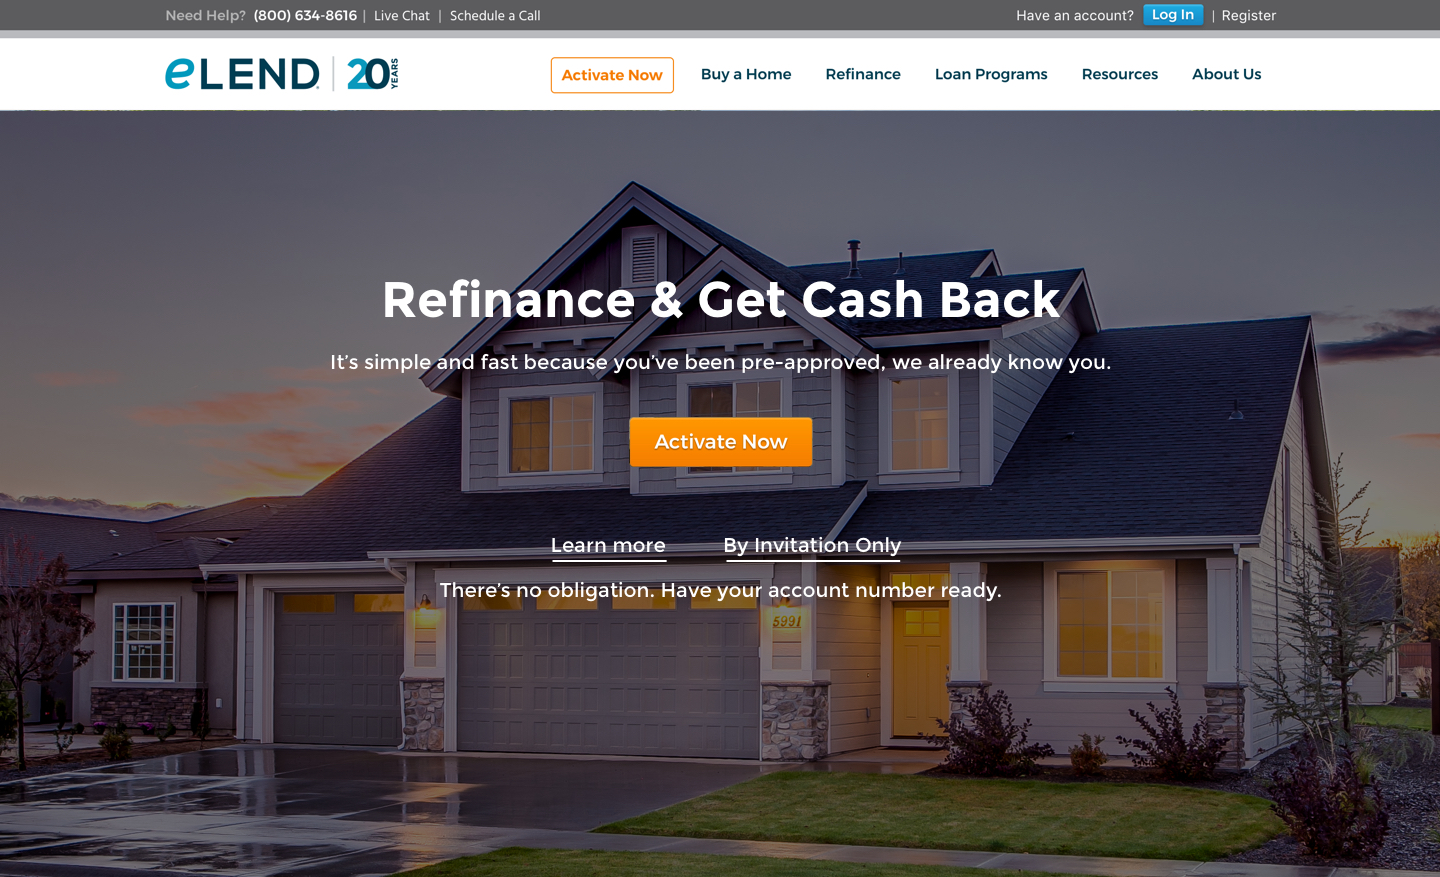
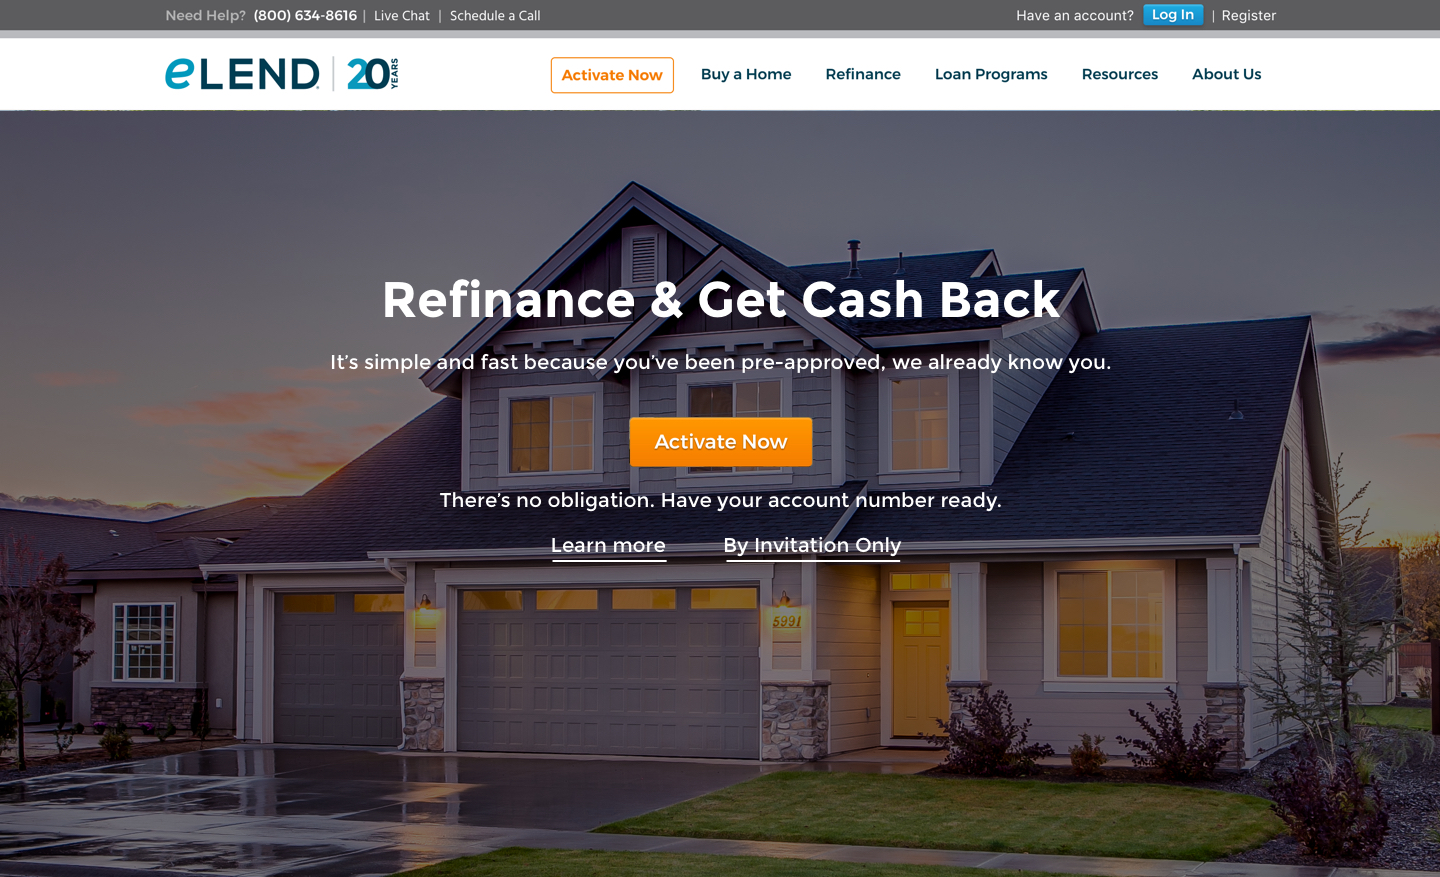
Site updated to e8b47bf

Changed region(s): [[0.3125, 0.6465, 0.6875, 0.6773], [0.3125, 0.5542, 0.6875, 0.5849]]

diff --git a/index.html b/index.html
@@ -18,7 +18,7 @@
     <main  class="js-animsition animsition" data-animsition-in-class="fade-in">
   <div class="cd-index cd-main-content">
     <div>
-      <a class="cd-btn" href="wizard.html" data-type="page-transition"><img src="images/elend-home.jpg"></a>
+      <a class="cd-btn" href="wizard.html" data-type="page-transition"><img src="images/elend-home2.jpg"></a>
     </div>
   </div>
 </main>
